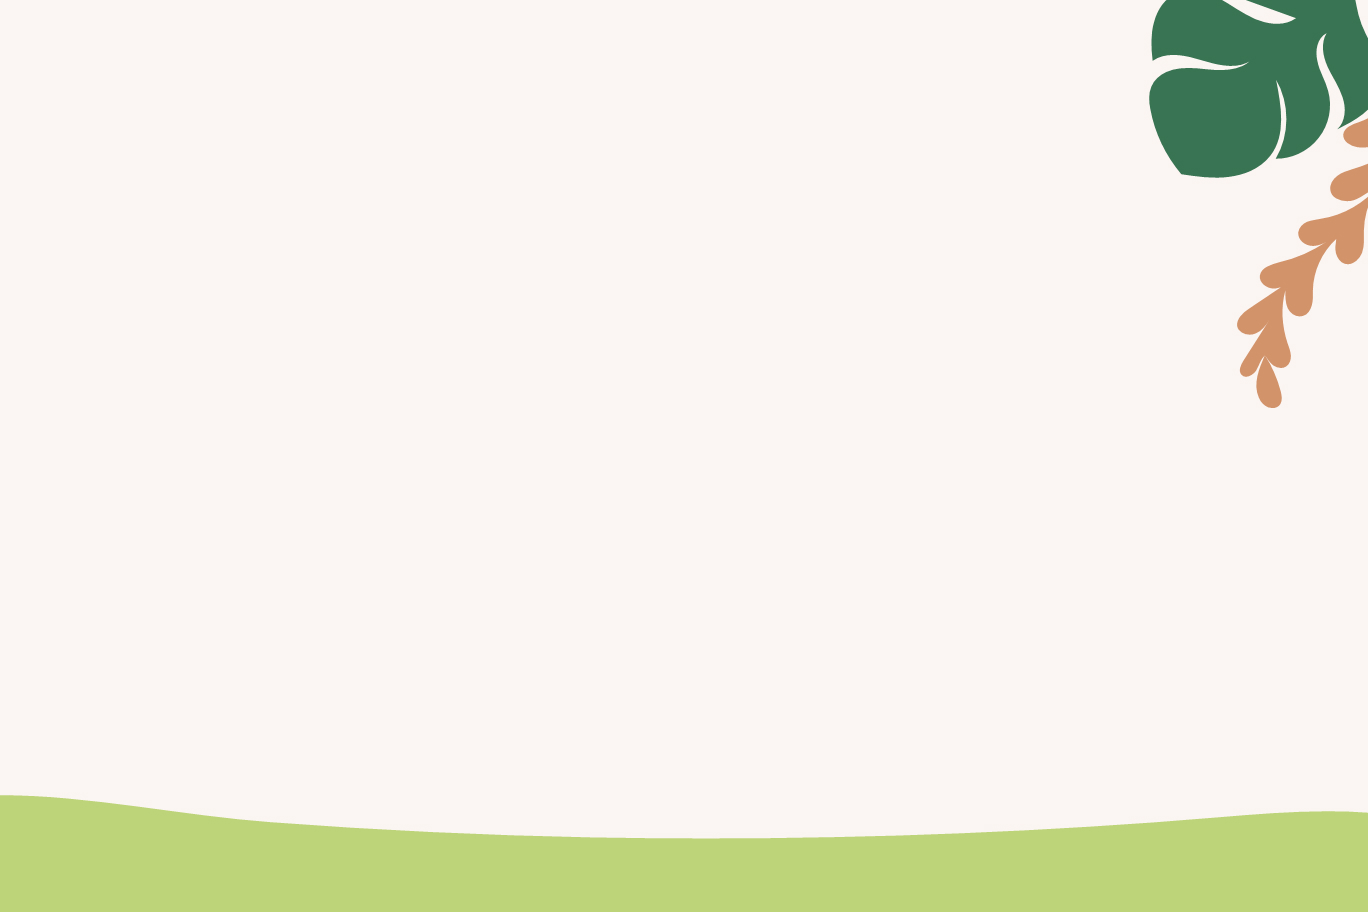
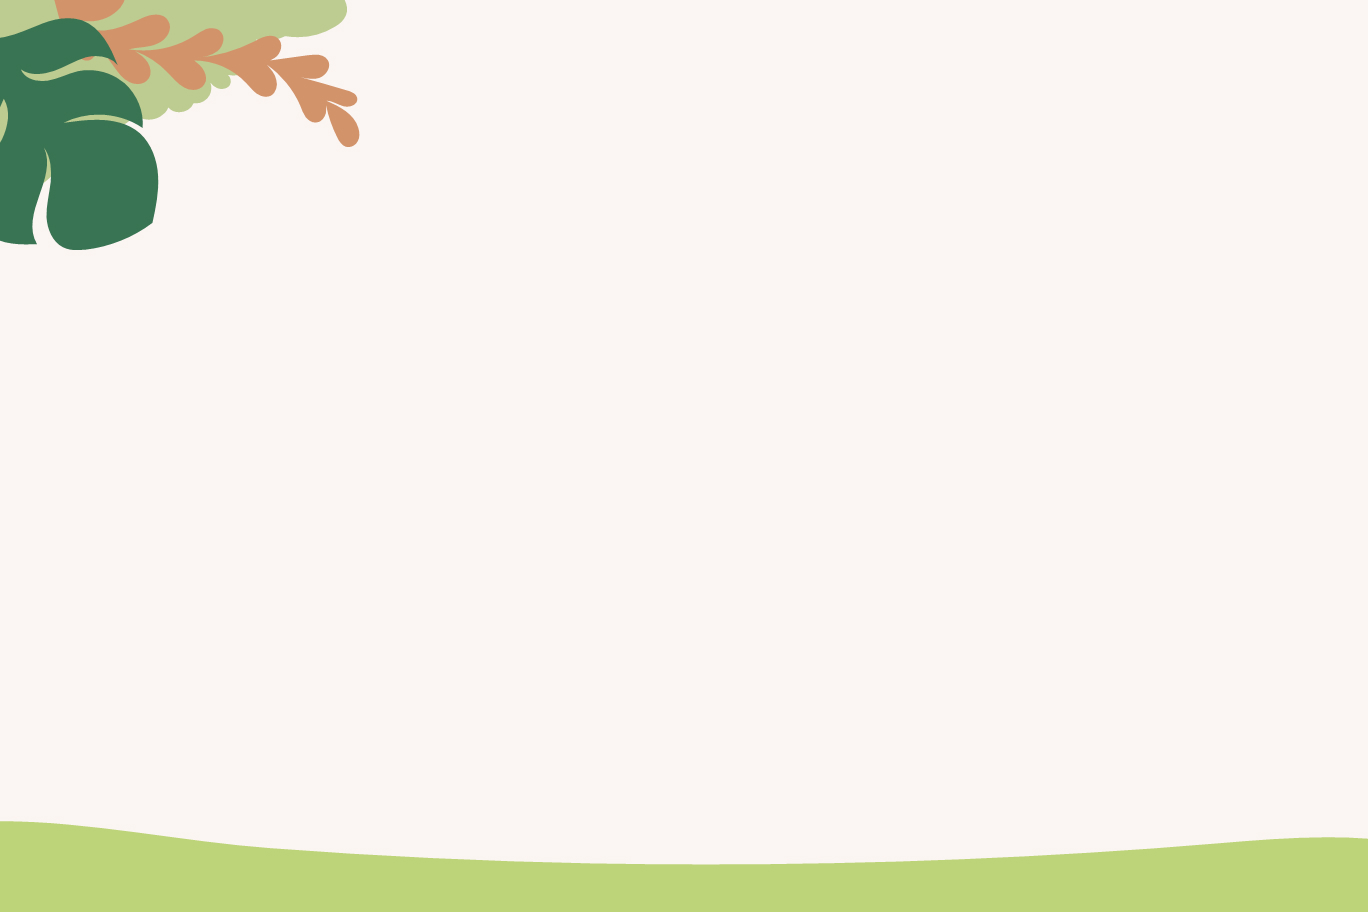
[S09P31B108-651] fix : 배포 후 피드백 반영

Changed region(s): [[0.0, 0.8596, 1.0, 0.9518], [0.8289, 0.0, 1.0, 0.4605], [0.0, 0.0, 0.2763, 0.2763]]

diff --git a/frontend/src/pages/common/sketch/index.jsx b/frontend/src/pages/common/sketch/index.jsx
@@ -54,7 +54,8 @@ const Colours = styled.ul`
 const ColourItem = styled.li`
   display: inline-block;
   height: 20vh;
-  margin: 0 12px;
+  margin: ${({ index, currentColorIndex }) =>
+    index === currentColorIndex ? "0px 12px" : "30px 12px 0px"};
   width: 5vh;
 
   &:nth-child(1) {
@@ -215,6 +216,7 @@ const SketchPage = () => {
   const { playSound } = useSoundEffect();
   const postAlbum = usePostAlbum();
   const [backButtonPressCount, setBackButtonPressCount] = useState(0);
+  const [submitButtonClicked, setSubmitButtonClicked] = useState(false);
 
   const pencilPathDefaults = {
     minThickness: 4,
@@ -497,7 +499,12 @@ const SketchPage = () => {
   }
 
   const capturePage = () => {
-    toast("📖 편지를 보내는 중이예요!");
+    if (submitButtonClicked) {
+      return; // Do nothing if the button has already been clicked
+    }
+    setSubmitButtonClicked(true);
+
+    toast("✉ 편지를 보내는 중이예요!");
     clearBufferCanvas();
     // 요소를 숨기기 전에 display 속성을 저장합니다.
     const coloursElement = document.querySelector(".colours");
@@ -557,6 +564,12 @@ const SketchPage = () => {
   };
 
   useEffect(() => {
+    return () => {
+      setSubmitButtonClicked(false);
+    };
+  }, []);
+
+  useEffect(() => {
     const disableBackButton = (e) => {
       e.preventDefault();
     };
@@ -604,6 +617,8 @@ const SketchPage = () => {
             index !== 8 && (
               <ColourItem
                 key={index}
+                index={index}
+                currentColorIndex={currentColorIndex}
                 onClick={() => {
                   setCurrentColorIndex(index);
                   setPreviousColorIndex(index);
@@ -624,6 +639,7 @@ const SketchPage = () => {
       <SubmitButton
         className="submit-button"
         onClick={capturePage}
+        disabled={submitButtonClicked}
       ></SubmitButton>
       <ExitContainer className="exit-button" onClick={handleExit}>
         <ExitBtn src={exitBtn}></ExitBtn>

diff --git a/frontend/src/pages/parent/record/index.tsx b/frontend/src/pages/parent/record/index.tsx
@@ -89,7 +89,7 @@ const ExitContainer = styled.div`
   justify-content: center;
   align-items: center;
   top: 0;
-  left: 128vh;
+  right: 1vh;
   margin: 2vh 4vh;
   z-index: 5;
 
@@ -436,13 +436,15 @@ const ParentRecordPage = () => {
         <RecordBoxWrapper>
           {scriptData[currentPage].scriptList[currentScriptNum].script}
           <ArrowWrapper>
-            <ArrowIcon
-              xmlns="http://www.w3.org/2000/svg"
-              viewBox="0 0 25 32"
-              onClick={handleNextScript}
-            >
-              <path d="M0 0V31.5L24.75 15.75L0 0Z" fill="white" />
-            </ArrowIcon>
+            {isAudioAvailable && (
+              <ArrowIcon
+                xmlns="http://www.w3.org/2000/svg"
+                viewBox="0 0 25 32"
+                onClick={handleNextScript}
+              >
+                <path d="M0 0V31.5L24.75 15.75L0 0Z" fill="white" />
+              </ArrowIcon>
+            )}
           </ArrowWrapper>
         </RecordBoxWrapper>
         <div

diff --git a/frontend/src/pages/parent/main/index.tsx b/frontend/src/pages/parent/main/index.tsx
@@ -20,7 +20,7 @@ import { ButtonEffect } from "@/styles/buttonEffect";
 
 import { useSoundEffect } from "@/components/sounds/soundEffect";
 
-import background from "@/assets/img/background/backgroundMain.jpg";
+import background from "@/assets/img/background/backgroundMainRight.jpg";
 
 import photo from "@/assets/img/photo.png";
 import tape from "@/assets/img/tape.png";
